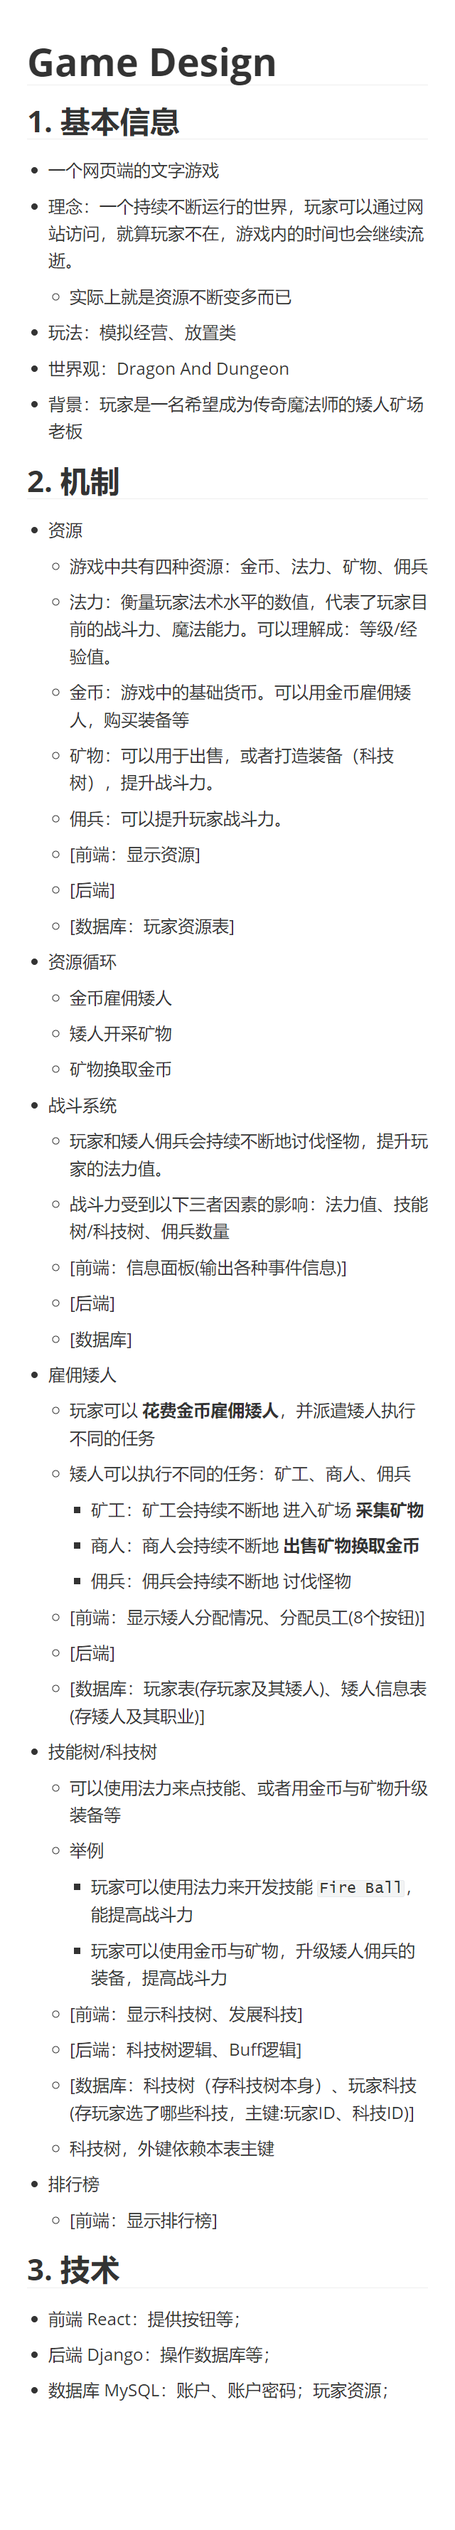
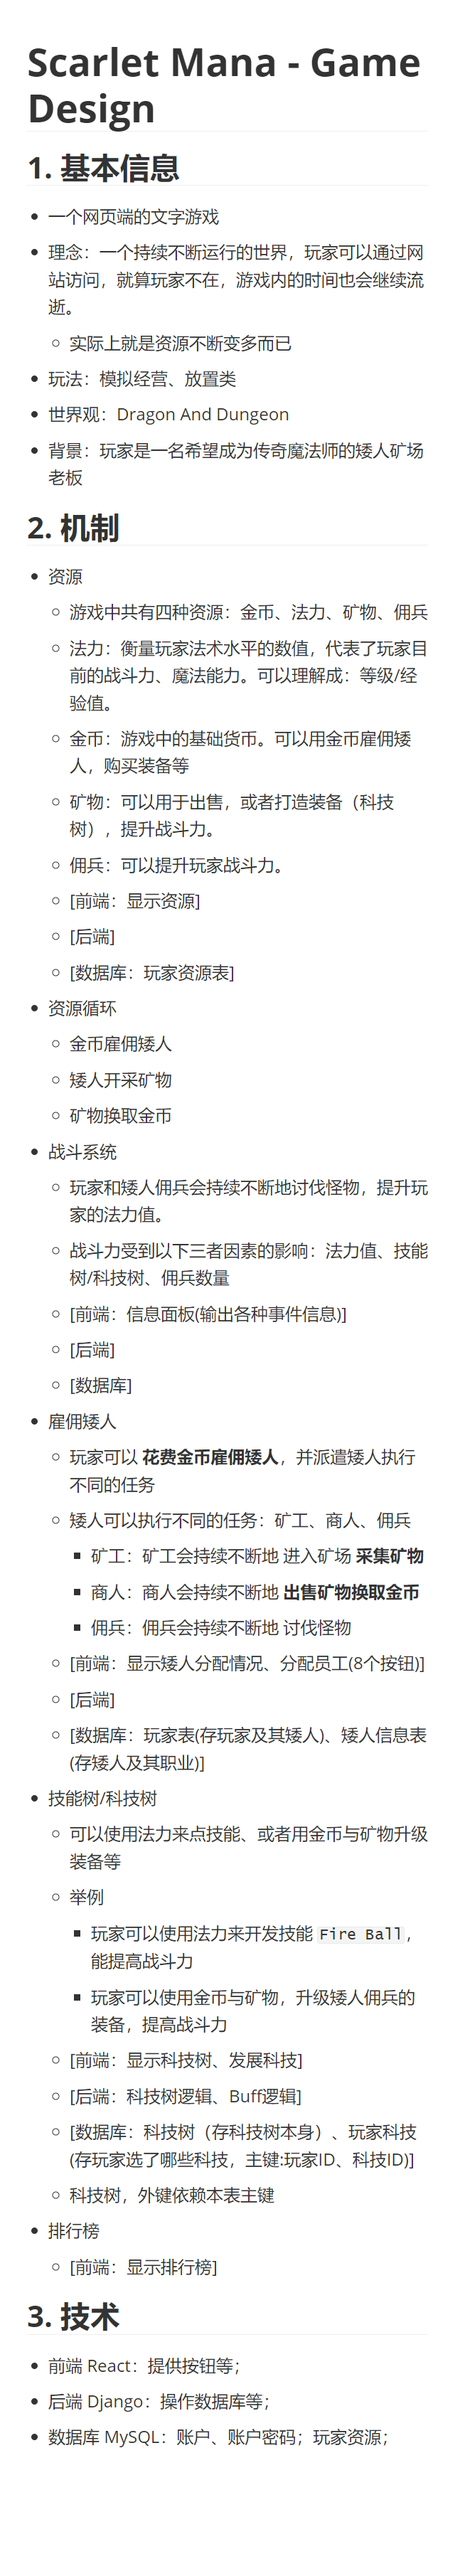
docs: 更新了GameDesign

Changed region(s): [[0.0625, 0.0, 0.9375, 0.9671], [0.6875, 0.0, 0.9062, 0.0312], [0.6875, 0.9359, 0.8438, 0.9671]]

diff --git a/GameDesign.md b/GameDesign.md
@@ -1,4 +1,4 @@
-# Game Design
+# Scarlet Mana - Game Design
 
 ## 1. 基本信息
 
